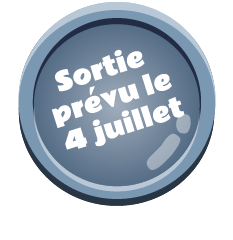
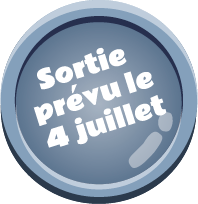
debut du responsive

diff --git a/Landing_page/style.css b/Landing_page/style.css
@@ -1,14 +1,12 @@
 /*
     FONTS
 */
-
 @font-face {
     font-family: 'Super Mario 256';
     src: url('Font/SuperMario256.ttf') format('truetype');
     font-weight: bold;
     font-style: normal;
 }
-
 
 @font-face {
     font-family: 'Rammetto One';
@@ -18,10 +16,11 @@
 }
 
 
+
+
 /*
     MAIN
 */
-
 body {
   margin: 0;
   padding: 0;
@@ -35,10 +34,11 @@ body {
   width: 80%;
 }
 
+
+
 /*
     BACKGROUNDS
 */
-
 header {
     background: linear-gradient(to bottom, #10324e, #047b95);
     height: auto;
@@ -67,10 +67,11 @@ header {
   position: relative;
 }
 
+
+
 /*
     Degrades de section
 */
-
 .degrade_to_bottom {
   position: absolute;
   top: 0;
@@ -92,7 +93,6 @@ header {
 /*
     HEADER
 */
-
 .logo_section {
   margin: auto;
   display: flex;
@@ -102,9 +102,9 @@ header {
 }
 
 .logo {
-    max-width: 500px;
+    width: 30%;
     height: auto;
-    padding-top: 100px;
+    padding-top: 10vh;
 }
 
 header p {
@@ -128,12 +128,12 @@ header p {
 
 .countdown img {
     align-self: flex-start;
-    width: 200px;
+    width: 15%;
     height: auto;
 }
 
 .horloge{
-  width: 65%;
+  width: 100%;
   justify-content: space-around;
   align-items: flex-end;
   text-align: center;
@@ -151,12 +151,9 @@ header p {
 }
 
 
-
-
 /*
     PERSONNAGES
 */
-
 .personnages {
     display: flex;
     justify-content: space-between;
@@ -165,9 +162,18 @@ header p {
 }
 
 .diskor p, .reine_sadida p {
+    position: relative;
     font-family: "Super Mario 256";
     font-size: 2rem;
     color: white;
+}
+
+.diskor p {
+  left: 100px;
+}
+
+.reine_sadida p {
+  left: 60px;
 }
 
 .reine_sadida, .diskor {
@@ -187,7 +193,6 @@ header p {
 /*
     NEWSLETTER
  */
-
 .newsletter {
   height: 100%;
   text-align: center;
@@ -224,27 +229,30 @@ header p {
   border-radius: 10px;
 }
 
-.newsletter form input {
+.newsletter form input:first-child {
+  flex-grow: 2;
   height: 25px;
-  width: 65%;
   border: none;
   padding: 5px;
 }
 
 .newsletter form input:last-child {
+  flex-grow: 1;
   color: white;
   font-family: "Super Mario 256";
   font-size: 1.3rem;
   background-color: #2b2759;
   border: none;
-  width: 30%;
+
+
   }
+
+
 
 
   /*
       HISTORY
    */
-
 .history {
   display:flex;
   justify-content: space-between;
@@ -307,7 +315,6 @@ header p {
 /*
     DECK
 */
-
 .deck {
   margin: auto;
   text-align: center;
@@ -351,7 +358,6 @@ header p {
 /*
     SOCIAL
 */
-
 .social {
   display: flex;
   flex-direction: column;
@@ -386,7 +392,6 @@ header p {
 /*
     FOOTER
 */
-
 footer {
   display: flex;
   justify-content: space-around;
@@ -427,8 +432,6 @@ footer p {
 
     MEDIA QUERIES
 */
-
-
 @media (max-width: 1170px) {
   .section_width {
     width: 95%;
@@ -437,6 +440,29 @@ footer p {
   .newsletter p {
     font-size: 1.5rem;
   }
+
+  .newsletter form {
+    flex-direction: column;
+  }
+
+  .newsletter form input:first-child {
+    width: 90%;
+    margin-bottom: 10px;
+  }
+
+  .history_text p {
+    line-height: 1rem;
+    font-size: 0.7rem;
+  }
+
+  .story_text {
+    top: 41%;
+    left: 22%;
+  }
+
+
+
+
 
 }
 
@@ -449,5 +475,69 @@ footer p {
 }
 
 @media (max-width: 480px) {
+
+  /* header */
+  .logo {
+    width: 54%;
+    padding-top: 5vh;
+  }
+
+  header p {
+    font-size: 1rem;
+  }
+
+  .countdown {
+    flex-direction: column;
+    align-items: center;
+    justify-content: center;
+  }
+
+  .countdown img {
+    margin: auto;
+    width: 43%;
+  }
+
+  .horloge {
+    display: none;
+  }
+
+  /* PERSONNAGES */
+
+  .personnages {
+    margin-top: 0;
+    flex-direction: column;
+  }
+
+  .inscription {
+    order: 1;
+    left: auto;
+
+  }
+
+  .reine_sadida {
+    order: 2;
+  }
+
+  .diskor {
+    order: 3;
+  }
+
+  .newsletter img {
+    top: 38%;
+    width: 95%;
+  }
+
+
+
+
+
+
+
+
+
+  .diskor p, .reine_sadida p {
+    display: none;
+  }
+
 
 }

diff --git a/Landing_page/landing_page.html b/Landing_page/landing_page.html
@@ -12,7 +12,7 @@
       <!-- LOGO -->
       <div class="logo_section section_width">
           <img class="logo" src="images/logo.png" alt="Logo Galaxseed">
-          <p>Découvrez ce jeu de cartes et de stratégie ! <br/>
+          <p>Découvrez ce jeu de cartes et de stratégie ! <br/><br/>
               Inscrivez-vous à la newsletter pour ne rien manquer !</p>
           <div class="countdown">
               <img src="images/hublot.png" alt="date sortie">
